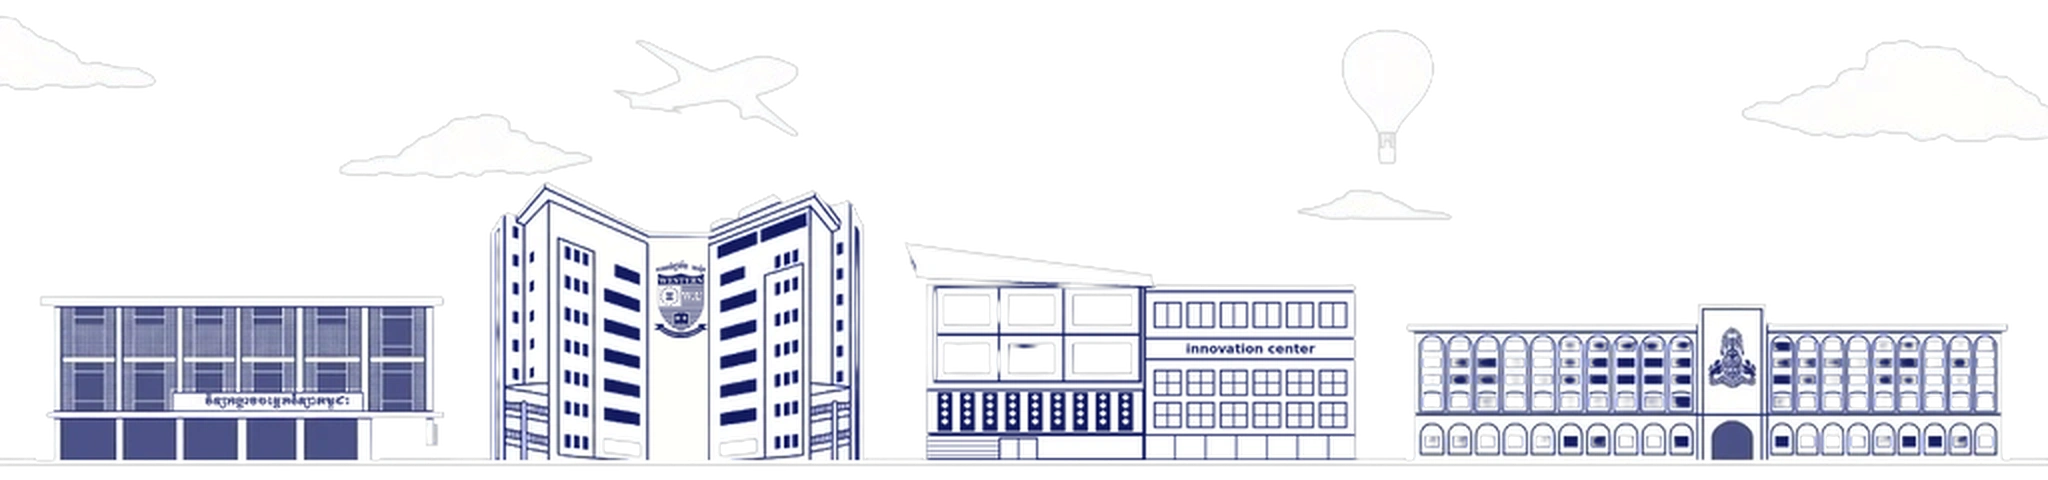
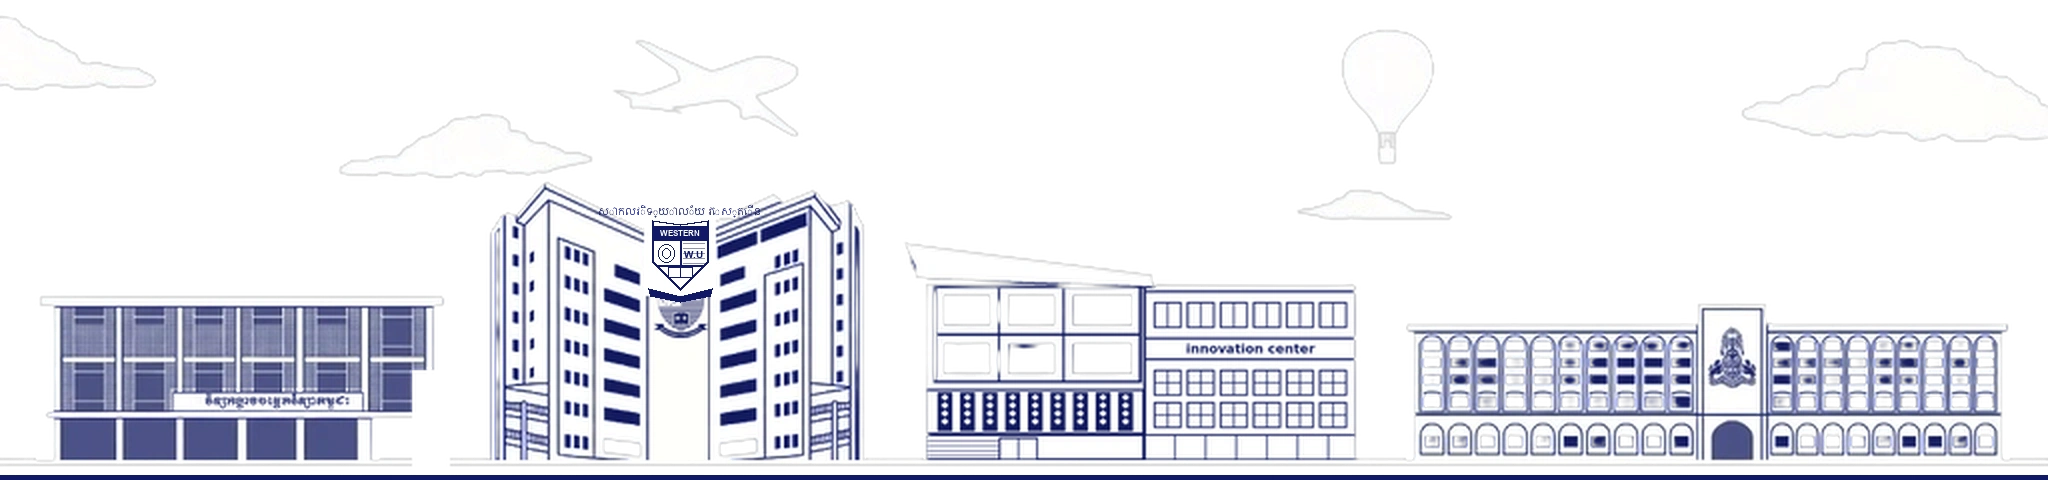
fix(footer): make skyline full-width edge-to-edge, remove artifact on building 1, and enhance western university emblem

Changed region(s): [[0.0, 0.9375, 1.0, 1.0], [0.3125, 0.4375, 0.375, 0.625], [0.1875, 0.75, 0.2188, 0.875]]

diff --git a/frontend/src/components/layout/footer.tsx b/frontend/src/components/layout/footer.tsx
@@ -106,18 +106,16 @@ export function Footer() {
         </div>
       </div>
 
-      {/* Cambodian University Campuses Landmark Skyline (Clean, Compact Height) */}
+      {/* Cambodian University Campuses Landmark Skyline (Full-Width Panorama) */}
       <div className="w-full relative overflow-hidden select-none bg-[#111965] -mb-1">
-        <div className="w-full flex justify-center">
-          <Image
-            src="/images/cambodia-campuses-skyline-clean.webp"
-            alt="Cambodian University Campuses - RUPP, Western University, CADT Innovation Center, ITC"
-            width={2048}
-            height={480}
-            priority={false}
-            className="w-full max-h-52 sm:max-h-64 lg:max-h-72 object-contain object-bottom"
-          />
-        </div>
+        <Image
+          src="/images/cambodia-campuses-skyline-clean.webp"
+          alt="Cambodian University Campuses - RUPP, Western University, CADT Innovation Center, ITC"
+          width={2048}
+          height={480}
+          priority={false}
+          className="w-full h-auto object-cover object-bottom"
+        />
       </div>
 
       {/* Bottom Copyright Bar */}
